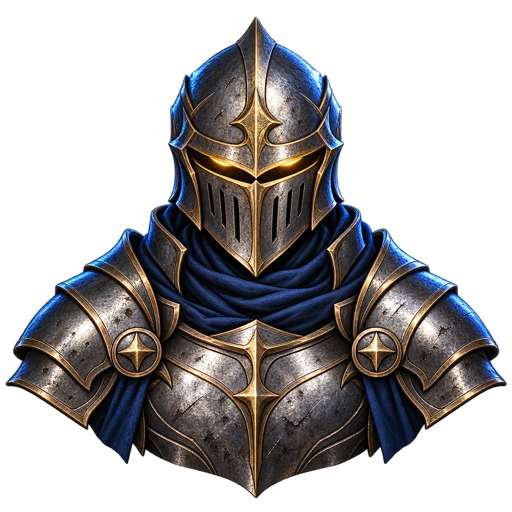
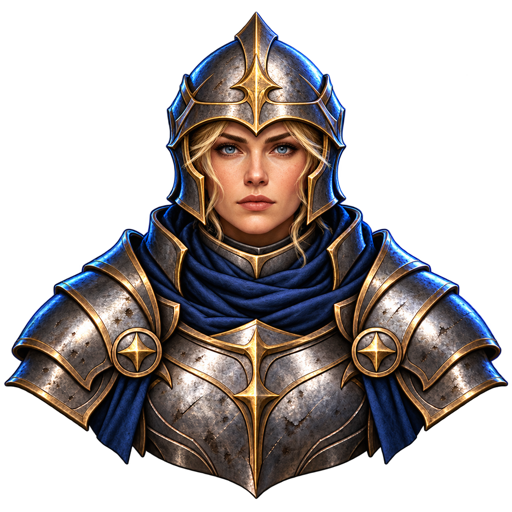
Align hero names and portraits by class

Changed region(s): [[0.0, 0.0312, 1.0, 0.9688], [0.5625, 0.7812, 0.8125, 0.9375], [0.0625, 0.5938, 0.0938, 0.625]]

diff --git a/src/dungeon.js b/src/dungeon.js
@@ -122,13 +122,13 @@ const HERO_TYPES = {
 const HERO_KEYS = Object.keys(HERO_TYPES);
 const TOWN_TYPES = Object.keys(BUILDING_DEFINITIONS);
 const HERO_NAMES = {
-  knight: ["Aldric", "Branna", "Cedric", "Ysabel"],
-  thief: ["Nyx", "Silas", "Vesper", "Rook"],
-  bard: ["Lucan", "Mira", "Orfeo", "Tamsin"],
+  knight: ["Aveline", "Branna", "Helena", "Ysabel"],
+  thief: ["Nikolai", "Silas", "Viktor", "Dorian"],
+  bard: ["Lucan", "Milo", "Orfeo", "Tristan"],
   cleric: ["Ansel", "Elowen", "Marek", "Sabine"],
-  barbarian: ["Brynjar", "Freya", "Korga", "Ulf"],
-  ranger: ["Arden", "Kaia", "Rowan", "Sylvi"],
-  mage: ["Cael", "Isolde", "Meris", "Vael"],
+  barbarian: ["Brynjar", "Ragnar", "Korg", "Ulf"],
+  ranger: ["Arwen", "Kaia", "Rosalind", "Sylvi"],
+  mage: ["Celeste", "Isolde", "Morgana", "Vivienne"],
 };
 
 const FLAVORS = {

diff --git a/progress.md b/progress.md
@@ -1,5 +1,12 @@
 Original prompt: i want to create a game like tango from linkedin. Can you create a summary for that game? I want a game that has three daily levels - they should be random and the seed is current date taken from the browser. The game should be in JS. Can you summarise the rules for the game and figure out how to make sure the levels are solvable with enough hints for the user. We need to figure out or find an algorithm for creating these puzzles so they can always be solved
 
+## 2026-10-19 — Hero names and portrait alignment
+
+- Updated new-recruit pools: female Knight, Mage and Ranger names; male Bard, Barbarian and Thief names. Clerics were unspecified and remain unchanged. Saved heroes keep their existing identities.
+- Replaced shared Knight and Mage portraits through built-in image generation, retaining transparent 512px PNGs and the existing navy/gold art style. Knight is a blonde woman wearing a protective helmet and heavy plate; Mage is a silver-haired woman with violet magic. Exact prompts and final asset paths are in assets/heroes/ART_PROMPTS.json. Combat behavior is unchanged.
+- Verified actual Knight/Mage offers, recruitment, names and portraits in-browser without page errors; visually reviewed both full roster captures. Ran the web-game skill client and roster flow checks. Normal-motion roster test passed desktop, phone, small phone and landscape, then timed out waiting for a tablet card to stabilize; the complete suite passed with reduced motion via an output-only copy of the test. No runtime or test source changes were needed for that animation issue.
+- No remaining implementation work for this request. Optional follow-up: stabilize the existing tablet animated-card browser test.
+
 ## 2026-10-19 — Contextual balance explanations
 
 - Replaced the long static rule blocks with a compact Recruitment favour strip beneath the reel: class/portrait/+1 chips, new-contract/max-level caption, and a collapsed native Why these classes disclosure with exact two-day averages and all tied winners. Expanded desktop information uses both columns without stretching the reel's sidebar into a tall empty panel.
